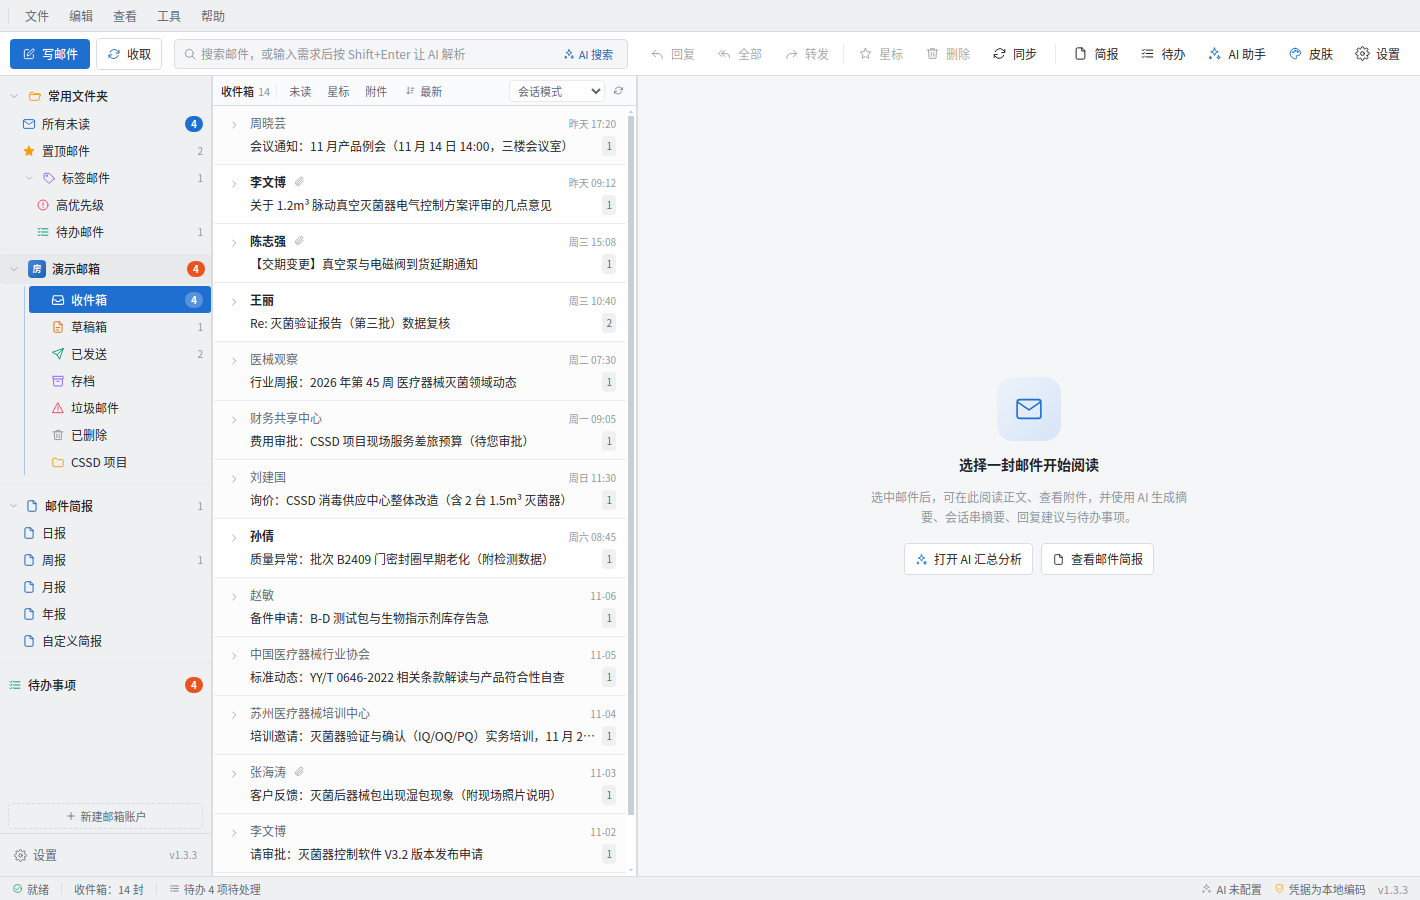
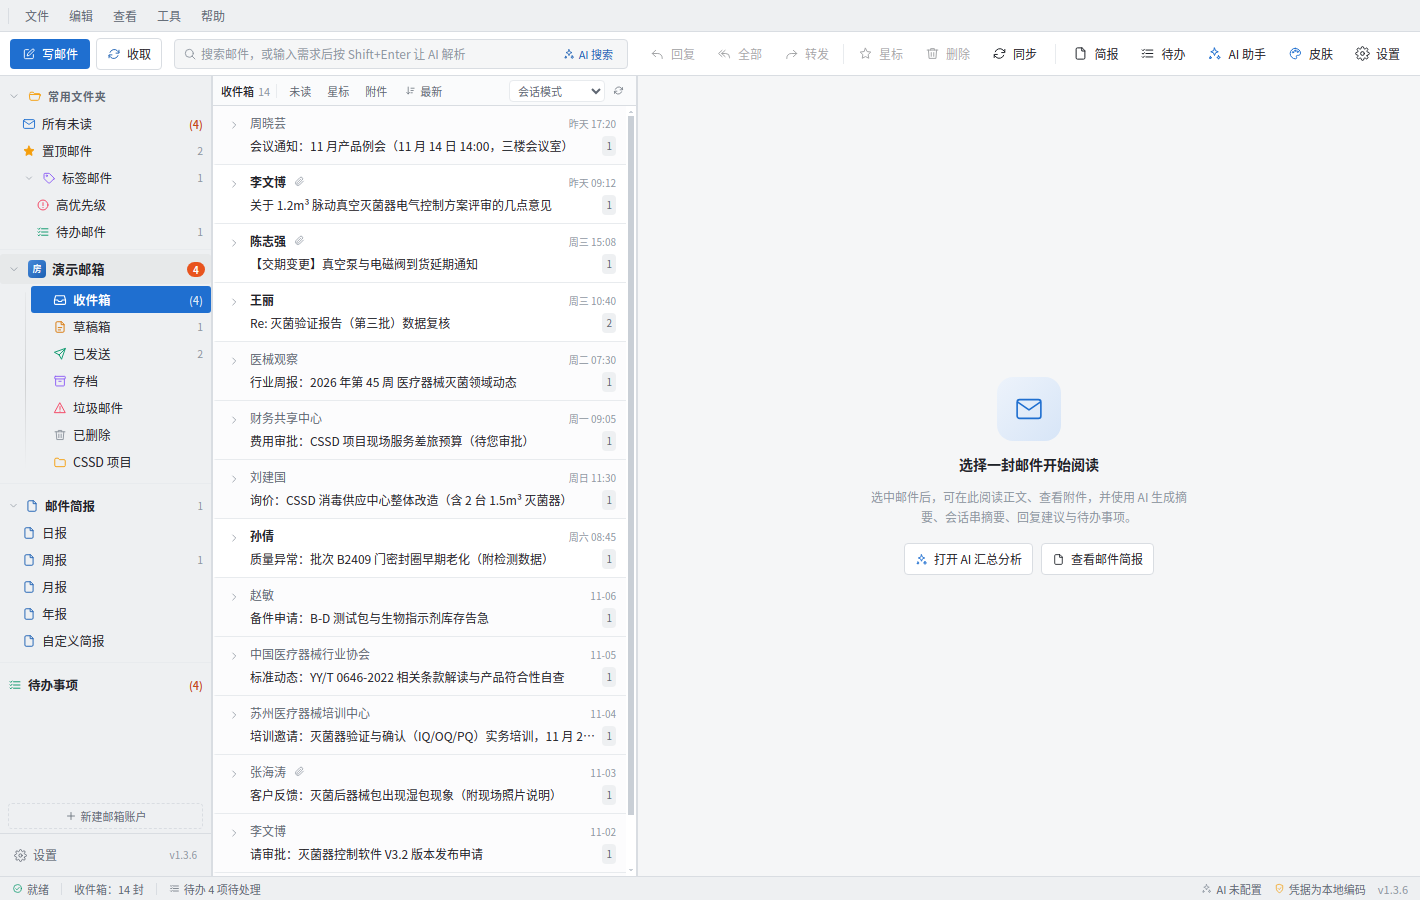
style(v1.3.7): 文件夹树字号分级、行内未读计数、层级引导线渐隐美化

diff --git a/src/layout/FolderTree.tsx b/src/layout/FolderTree.tsx
@@ -99,18 +99,20 @@ function FolderRow({
         className={active ? 'text-white' : color}
         strokeWidth={active ? 1.9 : 1.6}
       />
-      <span className={`flex-1 truncate ${active ? 'font-medium' : ''}`}>{folder.name}</span>
+      <span className={`flex-1 truncate text-[12.5px] ${active ? 'font-semibold' : 'font-normal'}`}>
+        {displayName}
+      </span>
       {folder.unread > 0 && (
         <span
-          className={`badge ${
-            active ? 'bg-white/25 text-white' : 'bg-brand-500 text-white'
+          className={`shrink-0 text-[11px] font-medium tabular-nums ${
+            active ? 'text-white/85' : 'text-accent-600'
           }`}
         >
-          {folder.unread > 99 ? '99+' : folder.unread}
+          ({folder.unread > 99 ? '99+' : folder.unread})
         </span>
       )}
       {folder.unread === 0 && folder.total > 0 && (
-        <span className={`text-[10px] tabular-nums ${active ? 'text-white/70' : 'text-shell-faint'}`}>
+        <span className={`shrink-0 text-[10.5px] tabular-nums ${active ? 'text-white/60' : 'text-shell-faint'}`}>
           {folder.total}
         </span>
       )}
@@ -207,7 +209,9 @@ export function FolderTree() {
                 <Icon name={commonExpanded ? 'chevron-down' : 'chevron-right'} size={12} />
               </span>
               <Icon name="folder-open" size={14} className="text-amber-500" />
-              <span className="flex-1 truncate text-xs font-medium text-shell-text">{tt('常用文件夹')}</span>
+              <span className="flex-1 truncate text-[11px] font-semibold tracking-[0.06em] text-shell-sub">
+                {tt('常用文件夹')}
+              </span>
             </button>
 
             {commonExpanded &&
@@ -284,10 +288,14 @@ export function FolderTree() {
                 <span className="flex h-[18px] w-[18px] items-center justify-center rounded-[4px] bg-gradient-to-br from-brand-400 to-brand-600 text-[9px] font-bold text-white">
                   {account.displayName.slice(0, 1) || '邮'}
                 </span>
-                <span className="flex-1 truncate text-xs font-medium text-shell-text" title={account.email}>
+                <span className="flex-1 truncate text-[13px] font-semibold tracking-[0.01em] text-shell-text" title={account.email}>
                   {account.name}
                 </span>
-                {totalUnread > 0 && <span className="badge bg-accent-500 text-white">{totalUnread}</span>}
+                {totalUnread > 0 && (
+                  <span className="shrink-0 rounded-full bg-accent-500 px-1.5 text-[10px] font-semibold leading-[15px] text-white tabular-nums">
+                    {totalUnread > 99 ? '99+' : totalUnread}
+                  </span>
+                )}
                 <button
                   type="button"
                   className="hidden text-shell-faint hover:text-brand-600 group-hover:block"
@@ -343,7 +351,11 @@ export function FolderTree() {
               )}
 
               {expanded && accountFolders.length > 0 && (
-                <div className="mt-0.5 ml-[24px] border-l border-brand-200 pl-1">
+                <div className="relative ml-[25px] mt-0.5 pl-1.5">
+                  <span
+                    aria-hidden
+                    className="pointer-events-none absolute bottom-1.5 left-0 top-1.5 w-px rounded-full bg-gradient-to-b from-black/[0.03] via-black/[0.13] to-transparent"
+                  />
                   {accountFolders.map((folder) => (
                     <FolderRow
                       key={folder.id}
@@ -387,7 +399,7 @@ export function FolderTree() {
                 className={view === 'briefs' && selectedFolderId === 'briefs' ? 'text-white/70' : 'text-shell-faint'}
               />
               <Icon name="document" size={14} className="text-brand-600" />
-              <span className="flex-1 font-medium">{tt('邮件简报')}</span>
+              <span className="flex-1 text-[12.5px] font-semibold">{tt('邮件简报')}</span>
               <span
                 className={`text-[10px] tabular-nums ${
                   view === 'briefs' && selectedFolderId === 'briefs' ? 'text-white/70' : 'text-shell-faint'
@@ -417,10 +429,14 @@ export function FolderTree() {
             }`}
           >
             <Icon name="checklist" size={14} className={view === 'todos' ? 'text-white' : 'text-emerald-600'} />
-            <span className="flex-1 font-medium">{tt('待办事项')}</span>
+            <span className="flex-1 text-[12.5px] font-semibold">{tt('待办事项')}</span>
             {todoStats.pending > 0 && (
-              <span className={`badge ${view === 'todos' ? 'bg-white/25 text-white' : 'bg-accent-500 text-white'}`}>
-                {todoStats.pending}
+              <span
+                className={`shrink-0 text-[11px] font-medium tabular-nums ${
+                  view === 'todos' ? 'text-white/85' : 'text-accent-600'
+                }`}
+              >
+                ({todoStats.pending})
               </span>
             )}
           </button>

diff --git a/electron/main.ts b/electron/main.ts
@@ -470,6 +470,13 @@ async function runScreenshotMode(window: BrowserWindow): Promise<void> {
   for (const view of views) {
     if (onlyViews.length > 0 && !onlyViews.includes(view.name)) continue;
     try {
+      // 版本变化时更新日志会自动弹出，除专门展示它的视图外先关掉
+      if (view.name !== '09-changelog') {
+        await window.webContents.executeJavaScript(
+          "document.querySelector('[data-changelog-close]')?.click?.(); true",
+        );
+        await new Promise((resolve) => setTimeout(resolve, 120));
+      }
       await window.webContents.executeJavaScript(view.script);
     } catch (error) {
       console.warn('[screenshot] 视图切换失败', view.name, (error as Error).message);

diff --git a/src/features/changelog/ChangelogDialog.tsx b/src/features/changelog/ChangelogDialog.tsx
@@ -100,6 +100,7 @@ export function ChangelogDialog() {
           <span className="text-[11px] text-shell-faint">当前版本 v{currentVersion}</span>
           <button
             type="button"
+            data-changelog-close
             onClick={closeChangelog}
             className="ml-auto rounded p-1 text-shell-faint transition-colors duration-120 hover:bg-black/[0.05] hover:text-shell-text"
             title="关闭"

diff --git a/CHANGELOG.md b/CHANGELOG.md
@@ -1,3 +1,9 @@
+## [1.3.7] - 2026-11-13
+### 优化
+- 左侧文件夹树字号分级：账户名 13px 加粗、文件夹名 12.5px、未读数 11px、总数 10.5px，分组标题 11px 加字距，层级一眼可分。
+- 未读数改为行内红色括号样式（如「收件箱 (4)」），去掉原来的实心色块徽标，与 QQ 邮箱的观感一致；账户行的未读汇总仍保留小圆点。
+- 层级引导线美化：原来的整条实线改为两端渐隐的 1px 圆角细线，从账户行自然垂到最后一个文件夹，不再有生硬的竖切感。
+- 文件夹行改用多语言显示名，切换界面语言时内置文件夹名会跟着变。
 ## [1.3.6] - 2026-11-13
 ### 新增
 - 常规 Office 文件在线预览：Word（.docx）保留标题、段落、列表与表格排版；Excel（.xlsx/.xls/.csv）按工作表渲染成表格；PowerPoint（.pptx）按页列出文字大纲。旧版 .doc 会提示改用「打开」或「另存为」。
